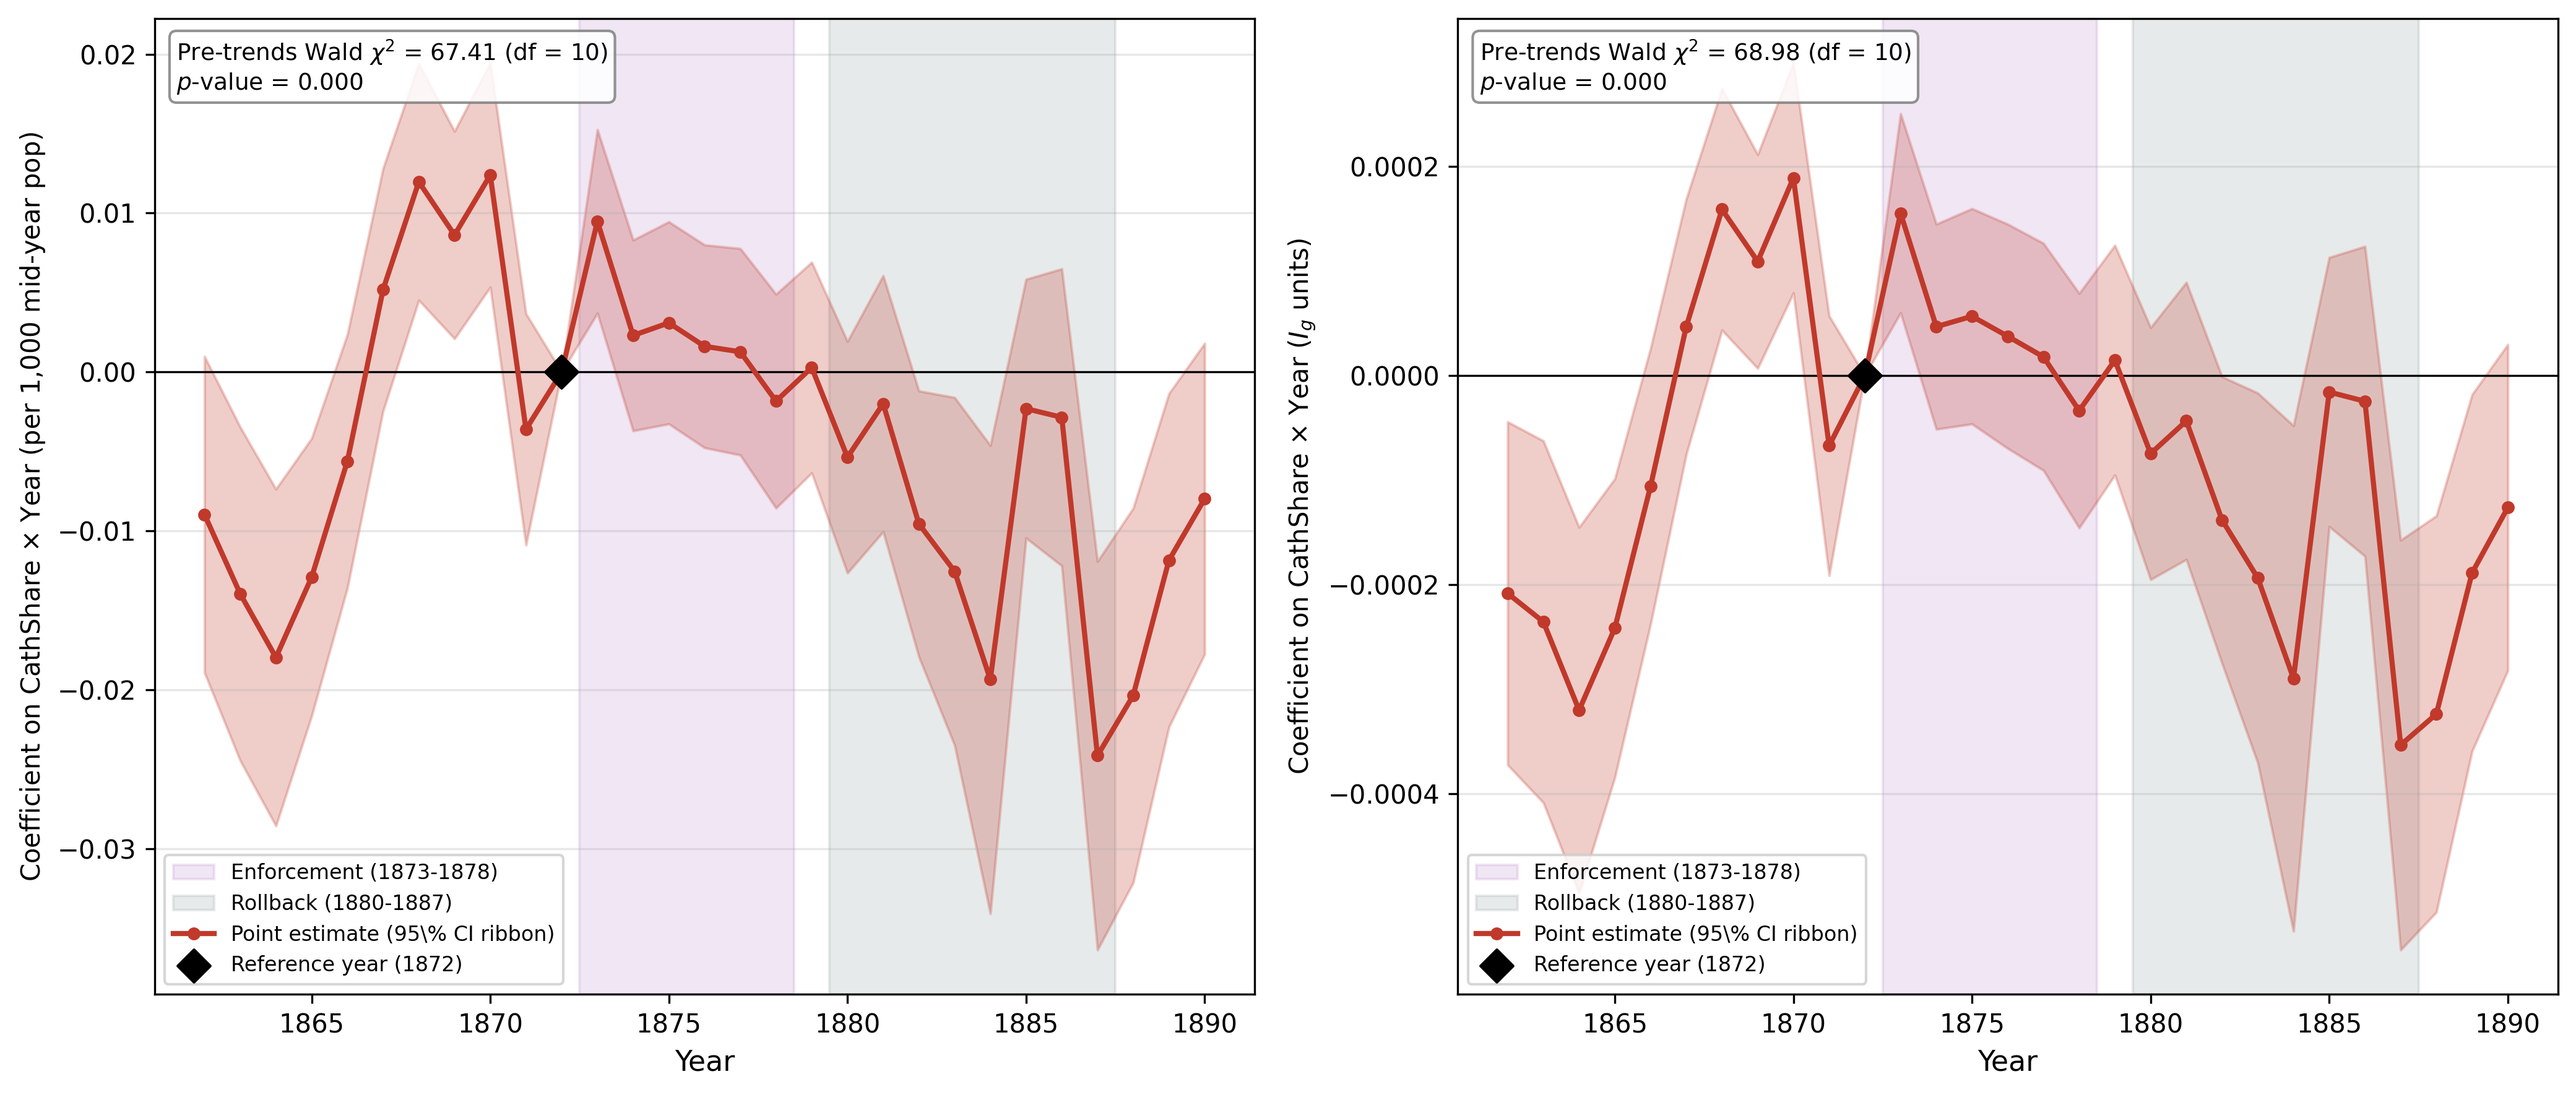
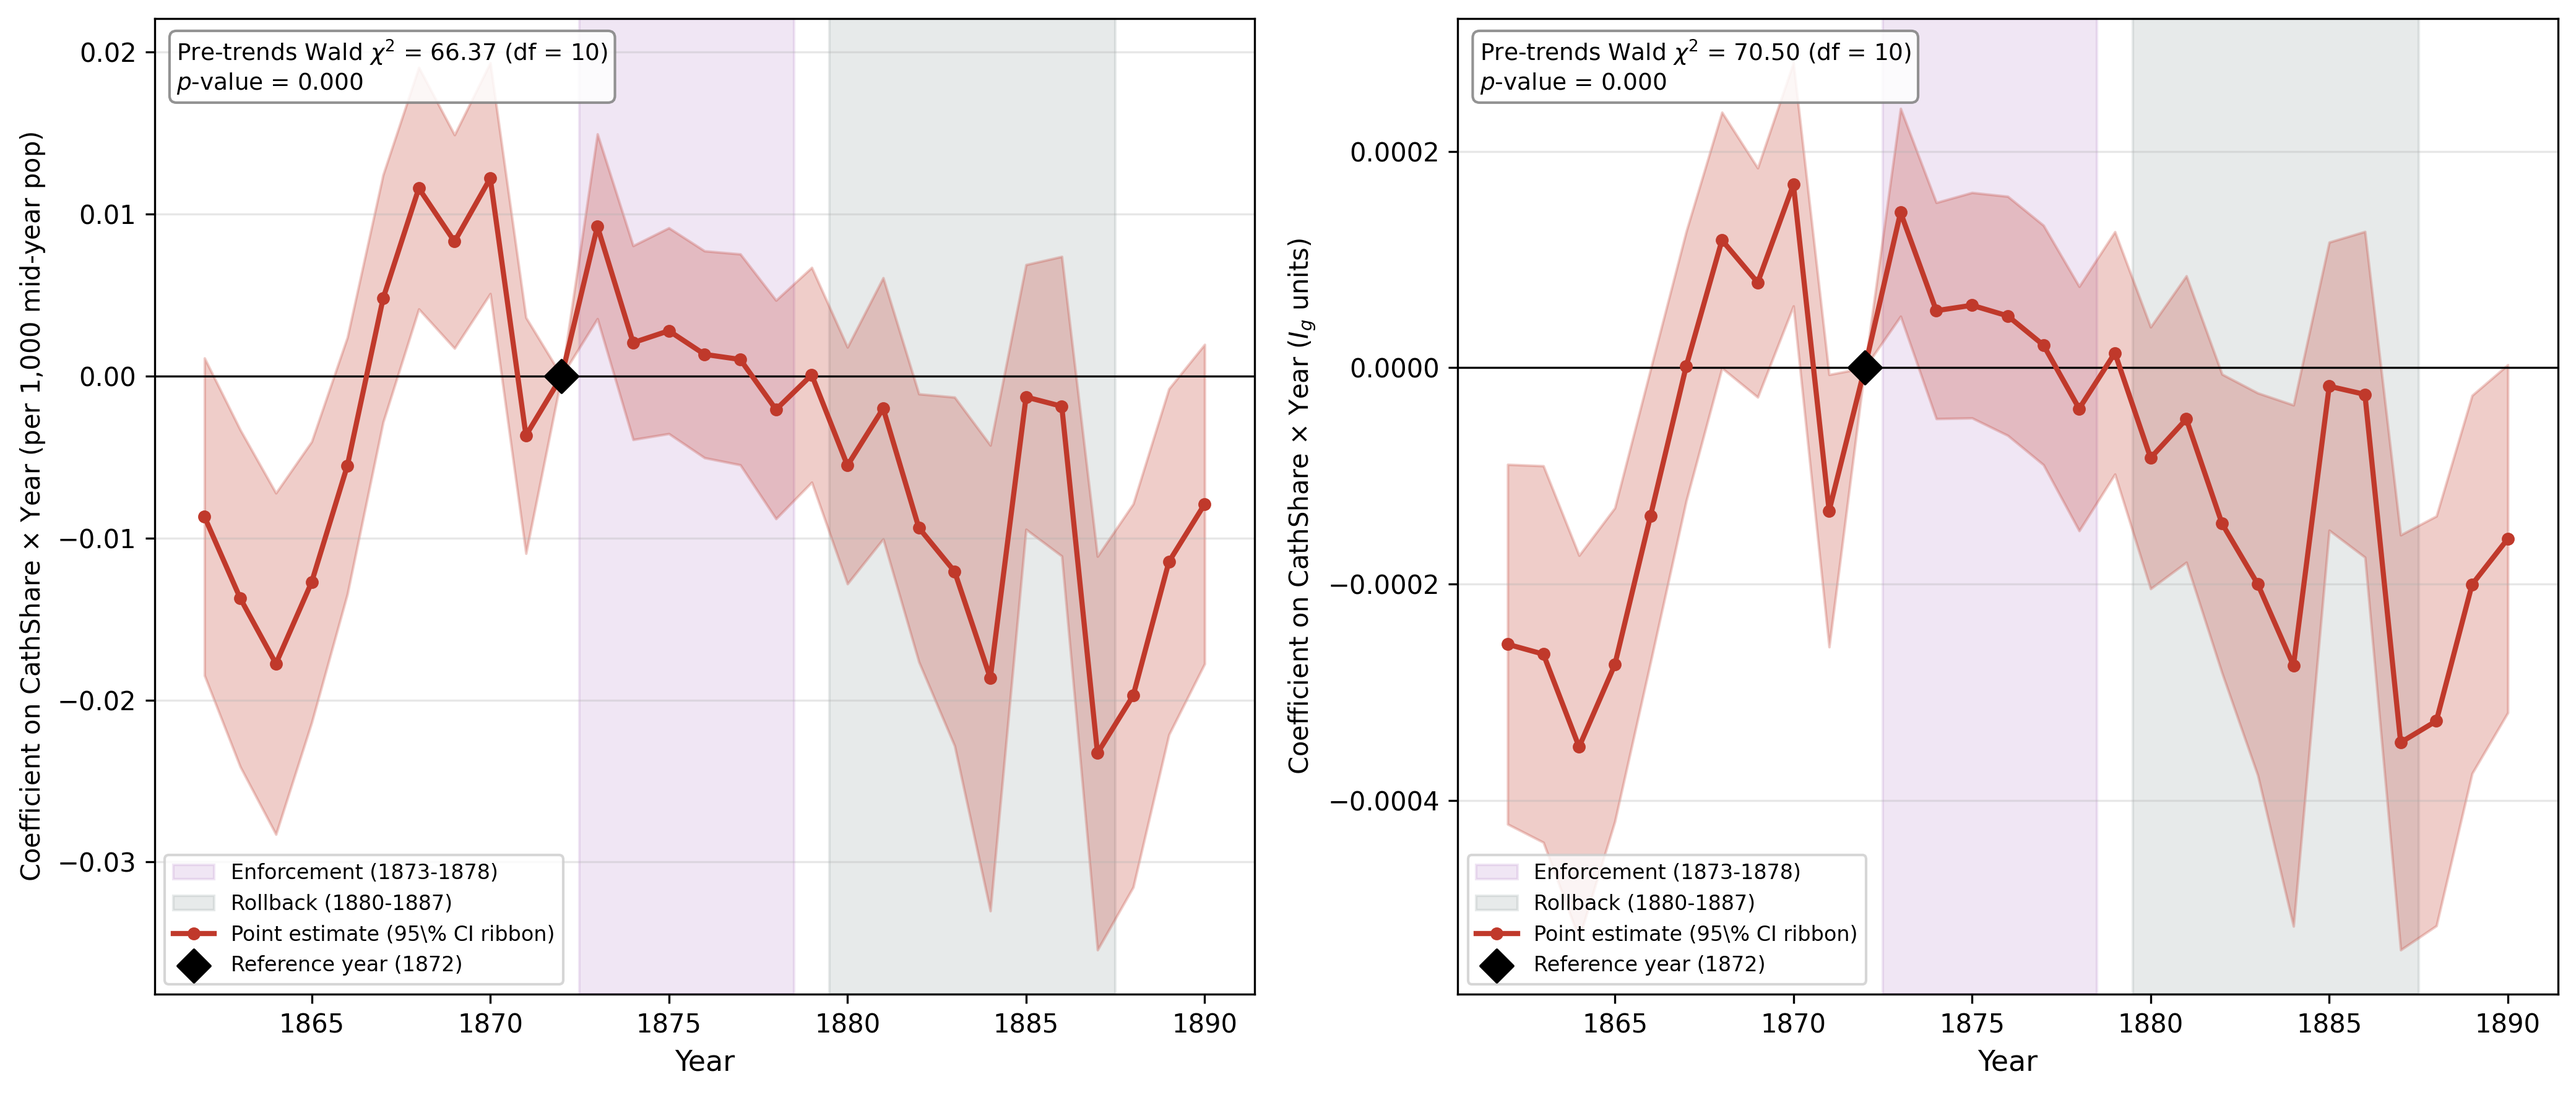
feat: marital fertility (I_g) as an outcome in baseline + Bai-Hsiao tables
The Polish-vs-German triple-difference table and the side-by-side
event-study figure (fig5_event_study_cbr_ig.png) already included
I_g. This commit adds it to the remaining two requested artefacts:

- baseline_did.tex: I_g is now the 5th outcome column in both
  Panel A (County + Year FE) and Panel B (County + Year x Rb FE).
  The carry-forward robustness row renders "--" for I_g because the
  Coale framework uses mid-year population only (no carry-forward
  variant; same treatment for illegitimacy_ratio, which doesn't have
  Poptot in its denominator either). Headline finding: under both
  FE designs the I_g coefficient is -0.000 / +0.000 -- tight null,
  consistent with the Coale decomposition that the Kulturkampf
  operated through nuptiality not marital fertility.

- pretreatment_trends.tex (Bai-Hsiao): I_g added as a third
  outcome column alongside CBR and marriage rate. Across all 9
  pre-treatment-trend specifications (literacy, urbanisation,
  Prussian citizenship, Jewish share, female-15-49 share,
  born-in-Kreis share, 1849 student share, land Gini, log income
  tax) the I_g coefficient stays within [-0.00003, +0.00009] -- a
  visually consistent null that strengthens the headline.

- fig5_event_study_cbr_ig.png regenerated with the current pipeline
  (no-ln_pop defaults, STA1871-recalibrated I_g). Pre-trends
  chi^2(10) = 66.37 for CBR and 70.50 for I_g, both p < 0.001
  (pre-trends rejection driven by Franco-Prussian war years).

latex_tables.py changes:
[…]

diff --git a/exam_project2/src/analysis/latex_tables.py b/exam_project2/src/analysis/latex_tables.py
@@ -634,7 +634,9 @@ def _did_column(panel: pd.DataFrame, outcome: str, fe_design: str) -> dict:
 
 def baseline_did_table(
     panel: pd.DataFrame,
-    outcomes: Sequence[str] = ("cbr", "legitimate_br", "illegitimacy_ratio", "marriage_rate"),
+    outcomes: Sequence[str] = (
+        "cbr", "legitimate_br", "illegitimacy_ratio", "marriage_rate", "I_g",
+    ),
     out_path: Path | None = None,
 ) -> str:
     """Multi-outcome baseline DiD with TWFE and stricter Year x Rb FE columns.
@@ -680,9 +682,19 @@ def baseline_did_table(
         "illegitimate_br": "illegitimate_br_carryforward",
         "marriage_rate": "marriage_rate_carryforward",
     }
-    cf_outcomes = [_carryforward_map.get(o, o) for o in outcomes]
-    cols_cf_twfe = [_did_column(panel, o, "twfe") for o in cf_outcomes]
-    cols_cf_strict = [_did_column(panel, o, "year_x_rb") for o in cf_outcomes]
+    # Coale indices (e.g. I_g) and any other outcome without a
+    # carry-forward variant get a "--" cell in the carry-forward row
+    # since their denominators are constructed from mid-year population
+    # only.
+    cf_outcomes = [_carryforward_map.get(o) for o in outcomes]
+    def _did_col_or_none(o):
+        return _did_column(panel, o, "twfe") if o else None
+    cols_cf_twfe = [
+        _did_column(panel, o, "twfe") if o else None for o in cf_outcomes
+    ]
+    cols_cf_strict = [
+        _did_column(panel, o, "year_x_rb") if o else None for o in cf_outcomes
+    ]
     cols_cf = cols_cf_twfe + cols_cf_strict
 
     # Pre-trends Wald chi-squared per outcome (TWFE event study), and a
@@ -757,12 +769,18 @@ def baseline_did_table(
     # stays compact rather than adding a third panel.
     carryforward_coef_row = (
         "\\quad CathShare $\\times$ Post (Galloway carry-forward) & "
-        + " & ".join(_fmt_coef(c["coef"], c["p"]) for c in cols_cf)
+        + " & ".join(
+            "--" if c is None else _fmt_coef(c["coef"], c["p"])
+            for c in cols_cf
+        )
         + r" \\"
     )
     carryforward_se_row = (
         " & "
-        + " & ".join(_fmt_se(c["se"]) for c in cols_cf)
+        + " & ".join(
+            "" if c is None else _fmt_se(c["se"])
+            for c in cols_cf
+        )
         + r" \\"
     )
     # One-line I_g pre-trends Wald comparison (spans full table width).
@@ -2363,31 +2381,42 @@ def pretreatment_trends_table(
     out_path = out_path or TABLES_DIR / "pretreatment_trends.tex"
 
     df = run_pretreatment_trends_robustness(
-        panel, outcomes=("cbr", "marriage_rate"), form="linear",
+        panel, outcomes=("cbr", "marriage_rate", "I_g"), form="linear",
     )
+
+    def _ig_digits(o, key):
+        # I_g coefficients are O(1e-4), CBR/marriage_rate are O(1e-3).
+        # Use 5 digits for I_g so non-zero values are visible.
+        return 5 if o == "I_g" else 4
 
     rows: list[str] = []
     for spec in df["spec"].drop_duplicates():
         sub = df[df["spec"] == spec]
-        cbr_sub = sub[sub["outcome"] == "cbr"]
-        mar_sub = sub[sub["outcome"] == "marriage_rate"]
-        cbr = cbr_sub.iloc[0] if len(cbr_sub) else None
-        mar = mar_sub.iloc[0] if len(mar_sub) else None
-        cbr_coef = _fmt_coef(cbr["coef"], cbr["p"], digits=4) if cbr is not None else ""
-        cbr_se = _fmt_se(cbr["se"], digits=4) if cbr is not None else ""
-        mar_coef = _fmt_coef(mar["coef"], mar["p"], digits=4) if mar is not None else ""
-        mar_se = _fmt_se(mar["se"], digits=4) if mar is not None else ""
-        n_val = int(cbr["n"]) if cbr is not None else int(mar["n"])
+        outs = {
+            o: (sub[sub["outcome"] == o].iloc[0] if (sub["outcome"] == o).any() else None)
+            for o in ("cbr", "marriage_rate", "I_g")
+        }
+        coefs = [
+            _fmt_coef(outs[o]["coef"], outs[o]["p"], digits=_ig_digits(o, "coef"))
+            if outs[o] is not None else ""
+            for o in ("cbr", "marriage_rate", "I_g")
+        ]
+        ses = [
+            _fmt_se(outs[o]["se"], digits=_ig_digits(o, "se"))
+            if outs[o] is not None else ""
+            for o in ("cbr", "marriage_rate", "I_g")
+        ]
+        n_val = next((int(outs[o]["n"]) for o in outs if outs[o] is not None), 0)
         rows.append(
-            f"{_latex_escape(spec)} & {cbr_coef} & {mar_coef} & {n_val:,} \\\\"
+            f"{_latex_escape(spec)} & " + " & ".join(coefs) + f" & {n_val:,} \\\\"
         )
-        rows.append(f" & {cbr_se} & {mar_se} & \\\\")
+        rows.append(" & " + " & ".join(ses) + r" & \\")
 
     body = (
-        "\\begin{tabular}{lccc}\n"
+        "\\begin{tabular}{lcccc}\n"
         "\\toprule\n"
-        " & CBR & Marriage rate & $N$ \\\\\n"
-        " & (1) & (2) & \\\\\n"
+        " & CBR & Marriage rate & $I_g$ & $N$ \\\\\n"
+        " & (1) & (2) & (3) & \\\\\n"
         "\\midrule\n"
         + "\n".join(rows) + "\n"
         + "\\bottomrule\n"
@@ -2401,12 +2430,15 @@ def pretreatment_trends_table(
             "(Bai 2009; Hsiao 2014)"
         ),
         label="tab:pretreatment_trends",
-        n_cols=4,
+        n_cols=5,
         notes=(
             "Each row is a separate two-way fixed-effects regression of the "
-            "outcome on $\\mathrm{CathShare} \\times \\mathrm{Post}$, "
-            "$\\ln(\\mathrm{Pop})$, and the listed baseline iPEHD-1871 "
-            "characteristics interacted with a centred linear time trend. "
+            "outcome on $\\mathrm{CathShare} \\times \\mathrm{Post}$ and the "
+            "listed baseline iPEHD-1871 characteristics interacted with a "
+            "centred linear time trend. The marital-fertility column "
+            "reports the recalibrated Coale $I_g$ (Hutterite-normalised "
+            "legitimate births per married woman 15--49, with the STA1871 "
+            "marriage-prevalence shifter); see \\S6.5 of the data appendix. "
             "The interactions allow counties with different pre-treatment "
             "literacy ($\\mathrm{school1517}$), urbanisation "
             "($f_{\\mathrm{urban}}$), Prussian-citizenship share "

diff --git a/exam_project2/outputs/tables/pretreatment_trends.tex b/exam_project2/outputs/tables/pretreatment_trends.tex
@@ -4,33 +4,33 @@
 \small
 \caption{Pretreatment-characteristic time-trend robustness (Bai 2009; Hsiao 2014)}
 \label{tab:pretreatment_trends}
-\begin{tabular}{lccc}
+\begin{tabular}{lcccc}
 \toprule
- & CBR & Marriage rate & $N$ \\
- & (1) & (2) & \\
+ & CBR & Marriage rate & $I_g$ & $N$ \\
+ & (1) & (2) & (3) & \\
 \midrule
-(1) Baseline (no pretreatment trends) & -0.0040 & -0.0042$^{***}$ & 10,777 \\
- & (0.0032) & (0.0009) & \\
-(2) + literacy x trend & -0.0053 & -0.0043$^{***}$ & 9,638 \\
- & (0.0034) & (0.0010) & \\
-(3) + lit + urban x trend & -0.0054 & -0.0043$^{***}$ & 9,638 \\
- & (0.0034) & (0.0010) & \\
-(4) + lit + urban + pruss x trend & -0.0054 & -0.0043$^{***}$ & 9,638 \\
- & (0.0034) & (0.0010) & \\
-(5) + lit + urban + pruss + jew x trend & 0.0002 & -0.0022$^{**}$ & 9,638 \\
- & (0.0035) & (0.0009) & \\
-(6) + lit + urban + pruss + jew + women-15-49-share x trend & -0.0001 & -0.0022$^{**}$ & 9,638 \\
- & (0.0034) & (0.0009) & \\
-(7) + born-in-Kreis share x trend & 0.0010 & -0.0023$^{***}$ & 9,638 \\
- & (0.0034) & (0.0009) & \\
-(8) + 1849 student share x trend & 0.0021 & -0.0015 & 7,143 \\
- & (0.0039) & (0.0010) & \\
-(9) + land Gini 1882 + log income-tax-pc 1876 x trend & 0.0002 & -0.0021$^{**}$ & 7,143 \\
- & (0.0040) & (0.0011) & \\
+(1) Baseline (no pretreatment trends) & -0.0040 & -0.0042$^{***}$ & -0.00000 & 10,777 \\
+ & (0.0032) & (0.0009) & (0.00006) & \\
+(2) + literacy x trend & -0.0053 & -0.0043$^{***}$ & -0.00003 & 9,638 \\
+ & (0.0034) & (0.0010) & (0.00006) & \\
+(3) + lit + urban x trend & -0.0054 & -0.0043$^{***}$ & -0.00003 & 9,638 \\
+ & (0.0034) & (0.0010) & (0.00006) & \\
+(4) + lit + urban + pruss x trend & -0.0054 & -0.0043$^{***}$ & -0.00003 & 9,638 \\
+ & (0.0034) & (0.0010) & (0.00006) & \\
+(5) + lit + urban + pruss + jew x trend & 0.0002 & -0.0022$^{**}$ & 0.00005 & 9,638 \\
+ & (0.0035) & (0.0009) & (0.00006) & \\
+(6) + lit + urban + pruss + jew + women-15-49-share x trend & -0.0001 & -0.0022$^{**}$ & 0.00005 & 9,638 \\
+ & (0.0034) & (0.0009) & (0.00006) & \\
+(7) + born-in-Kreis share x trend & 0.0010 & -0.0023$^{***}$ & 0.00005 & 9,638 \\
+ & (0.0034) & (0.0009) & (0.00006) & \\
+(8) + 1849 student share x trend & 0.0021 & -0.0015 & 0.00009 & 7,143 \\
+ & (0.0039) & (0.0010) & (0.00007) & \\
+(9) + land Gini 1882 + log income-tax-pc 1876 x trend & 0.0002 & -0.0021$^{**}$ & 0.00006 & 7,143 \\
+ & (0.0040) & (0.0011) & (0.00007) & \\
 \bottomrule
 \end{tabular}
 \begin{minipage}{\linewidth}
 \vspace{0.5em}
-\footnotesize \textit{Notes:} Each row is a separate two-way fixed-effects regression of the outcome on $\mathrm{CathShare} \times \mathrm{Post}$, $\ln(\mathrm{Pop})$, and the listed baseline iPEHD-1871 characteristics interacted with a centred linear time trend. The interactions allow counties with different pre-treatment literacy ($\mathrm{school1517}$), urbanisation ($f_{\mathrm{urban}}$), Prussian-citizenship share ($f_{\mathrm{pruss}}$), and Jewish-population share ($f_{\mathrm{jew}}$) to follow different trajectories. The Kulturkampf coefficient is then identified from deviations from those trajectories at 1873. The marriage-rate coefficient is essentially unchanged when literacy, urbanisation, and Prussian citizenship are added (rows 2--4) but attenuates by ~50\% when Jewish share is added (row 5), which absorbs differential dynamics in eastern provinces with high Jewish settlement and thus partially captures the same Polish-province channel documented in Tables~\ref{tab:falsifications} and \ref{tab:emigration_robustness}. Sample shrinks slightly because the iPEHD merge covers $\sim$90\% of Galloway counties. Standard errors clustered at the county level. $^{*}\,p<0.10$, $^{**}\,p<0.05$, $^{***}\,p<0.01$.
+\footnotesize \textit{Notes:} Each row is a separate two-way fixed-effects regression of the outcome on $\mathrm{CathShare} \times \mathrm{Post}$ and the listed baseline iPEHD-1871 characteristics interacted with a centred linear time trend. The marital-fertility column reports the recalibrated Coale $I_g$ (Hutterite-normalised legitimate births per married woman 15--49, with the STA1871 marriage-prevalence shifter); see \S6.5 of the data appendix. The interactions allow counties with different pre-treatment literacy ($\mathrm{school1517}$), urbanisation ($f_{\mathrm{urban}}$), Prussian-citizenship share ($f_{\mathrm{pruss}}$), and Jewish-population share ($f_{\mathrm{jew}}$) to follow different trajectories. The Kulturkampf coefficient is then identified from deviations from those trajectories at 1873. The marriage-rate coefficient is essentially unchanged when literacy, urbanisation, and Prussian citizenship are added (rows 2--4) but attenuates by ~50\% when Jewish share is added (row 5), which absorbs differential dynamics in eastern provinces with high Jewish settlement and thus partially captures the same Polish-province channel documented in Tables~\ref{tab:falsifications} and \ref{tab:emigration_robustness}. Sample shrinks slightly because the iPEHD merge covers $\sim$90\% of Galloway counties. Standard errors clustered at the county level. $^{*}\,p<0.10$, $^{**}\,p<0.05$, $^{***}\,p<0.01$.
 \end{minipage}
 \end{table}

diff --git a/exam_project2/outputs/tables/baseline_did.tex b/exam_project2/outputs/tables/baseline_did.tex
@@ -4,29 +4,29 @@
 \small
 \caption{Baseline difference-in-differences: Kulturkampf and demographic outcomes}
 \label{tab:baseline_did}
-\begin{tabular}{l*{8}{c}}
+\begin{tabular}{l*{10}{c}}
 \toprule
- & \multicolumn{4}{c}{Panel A: County + Year FE} & \multicolumn{4}{c}{Panel B: County + (Year $\times$ Rb) FE} \\
-\cmidrule(lr){2-5}\cmidrule(lr){6-9}
- & Crude birth rate & Legit.\ birth rate & Illegitimacy ratio & Marriage rate & Crude birth rate & Legit.\ birth rate & Illegitimacy ratio & Marriage rate \\
- & (1) & (2) & (3) & (4) & (5) & (6) & (7) & (8) \\
+ & \multicolumn{5}{c}{Panel A: County + Year FE} & \multicolumn{5}{c}{Panel B: County + (Year $\times$ Rb) FE} \\
+\cmidrule(lr){2-6}\cmidrule(lr){7-11}
+ & Crude birth rate & Legit.\ birth rate & Illegitimacy ratio & Marriage rate & $I_g$ (marital fertility) & Crude birth rate & Legit.\ birth rate & Illegitimacy ratio & Marriage rate & $I_g$ (marital fertility) \\
+ & (1) & (2) & (3) & (4) & (5) & (6) & (7) & (8) & (9) & (10) \\
 \midrule
-CathShare $\times$ Post & -0.004 & -0.002 & -0.003 & -0.004$^{***}$ & 0.000 & 0.001 & 0.000 & -0.000 \\
- & (0.003) & (0.003) & (0.002) & (0.001) & (0.005) & (0.005) & (0.003) & (0.001) \\
+CathShare $\times$ Post & -0.004 & -0.002 & -0.003 & -0.004$^{***}$ & -0.000 & 0.000 & 0.001 & 0.000 & -0.000 & 0.000 \\
+ & (0.003) & (0.003) & (0.002) & (0.001) & (0.000) & (0.005) & (0.005) & (0.003) & (0.001) & (0.000) \\
 \midrule
-County FE & Yes & Yes & Yes & Yes & Yes & Yes & Yes & Yes \\
-Year FE & Yes & Yes & Yes & Yes & -- & -- & -- & -- \\
-Year $\times$ Rb FE & -- & -- & -- & -- & Yes & Yes & Yes & Yes \\
-Observations & 10,777 & 10,777 & 10,777 & 10,777 & 10,777 & 10,777 & 10,777 & 10,777 \\
-Within $R^{2}$ & -0.002 & -0.001 & 0.010 & 0.028 & 0.000 & 0.000 & -0.002 & 0.002 \\
+County FE & Yes & Yes & Yes & Yes & Yes & Yes & Yes & Yes & Yes & Yes \\
+Year FE & Yes & Yes & Yes & Yes & Yes & -- & -- & -- & -- & -- \\
+Year $\times$ Rb FE & -- & -- & -- & -- & -- & Yes & Yes & Yes & Yes & Yes \\
+Observations & 10,777 & 10,777 & 10,777 & 10,777 & 10,777 & 10,777 & 10,777 & 10,777 & 10,777 & 10,777 \\
+Within $R^{2}$ & -0.002 & -0.001 & 0.010 & 0.028 & -0.000 & 0.000 & 0.000 & -0.002 & 0.002 & 0.001 \\
 \midrule
-\multicolumn{9}{l}{\textit{Galloway carry-forward robustness} (rate $=$ count $/$ raw Galloway \texttt{Poptot}; previous Dec.\ census carried forward in inter-census years)} \\
-\quad CathShare $\times$ Post (Galloway carry-forward) & -0.000 & 0.002 & -0.003 & -0.004$^{***}$ & -0.000 & 0.000 & 0.000 & -0.000 \\
- & (0.003) & (0.003) & (0.002) & (0.001) & (0.005) & (0.005) & (0.003) & (0.001) \\
+\multicolumn{11}{l}{\textit{Galloway carry-forward robustness} (rate $=$ count $/$ raw Galloway \texttt{Poptot}; previous Dec.\ census carried forward in inter-census years)} \\
+\quad CathShare $\times$ Post (Galloway carry-forward) & -0.000 & 0.002 & -- & -0.004$^{***}$ & -- & -0.000 & 0.000 & -- & -0.000 & -- \\
+ & (0.003) & (0.003) &  & (0.001) &  & (0.005) & (0.005) &  & (0.001) &  \\
 \midrule
-Pre-trends $\chi^{2}$ $p$ & 0.000 & 0.000 & 0.000 & 0.000 & 0.000 & 0.000 & 0.000 & 0.000 \\
+Pre-trends $\chi^{2}$ $p$ & 0.000 & 0.000 & 0.000 & 0.000 & 0.000 & 0.000 & 0.000 & 0.000 & 0.000 & 0.000 \\
 \addlinespace
-\multicolumn{9}{l}{\textit{Pre-trends Wald $\chi^{2}$ on $I_g$ (Coale marital fertility, Galloway-tradition headline)}: $\chi^{2} = 70.50$, df $= 10$, $p = 0.000$} \\
+\multicolumn{11}{l}{\textit{Pre-trends Wald $\chi^{2}$ on $I_g$ (Coale marital fertility, Galloway-tradition headline)}: $\chi^{2} = 70.50$, df $= 10$, $p = 0.000$} \\
 \bottomrule
 \end{tabular}
 \begin{minipage}{\linewidth}
